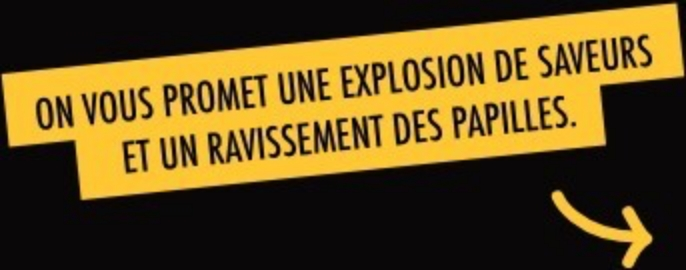
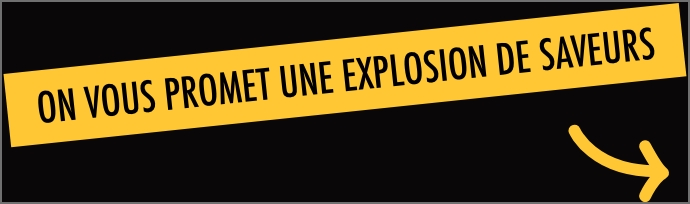
ok

diff --git a/wingstop-mail/index.html b/wingstop-mail/index.html
@@ -19,7 +19,7 @@
         body,
         td {
             font-family: Arial, Helvetica, Geneva, sans-serif;
-            font-size: 14px;
+            font-size: 10.9px;
         }
 
         .show {
@@ -187,12 +187,12 @@
                                                     <font style="font-weight: bold;font-size: 30px;">Rendez-vous</font>
                                                     <br>
                                                     <font style="font-weight: bold;font-size: 22px;">le 5 avril 2022
-                                                    </font><br><br>
-                                                    <font style="font-size: 17px;">pour une journée de lancement
+                                                    </font><br><br><br>
+                                                    <font style="font-size: 13px;">pour une journée de lancement
                                                         exceptionnelle. Et surprise !
                                                         Si vous faîtes partie des 100 premiers visiteurs, nous vous
                                                         offrons le menu burger!
-                                                    </font><br><br>
+                                                    </font><br><br><br><br>
                                                     <a href="https://wingstop.fr/nos-saveurs.html"><img src="https://arthurgenestier.github.io/wingstop-mail/img/CTA.jpg"
                                                             class="img-fluid" alt="je découvre"></a><br><br>
                                                 </td>
@@ -209,9 +209,9 @@
                                             <tr class="mBlock">
                                                 <td class="mBlock mwauto  mPadding" width="50%"
                                                     style="background: #090707;padding-left: 30px;">
-                                                    <font style="color: #FFFFFF;font-size: 17px;">On vous attend avec
+                                                    <font style="color: #FFFFFF;font-size: 13px;">On vous attend avec
                                                         impatience pour vous faire découvrir ce Big Flavour Burger à la
-                                                        sauce Wingstop.</font>
+                                                        sauce Wingstop.</font><br><br>
                                                     <img src="https://arthurgenestier.github.io/wingstop-mail/img/text-fleche.jpg"
                                                         alt="on vous promet une explosion de saveurs" class="img-fluid"
                                                         width="250" style="margin-bottom: 10px;">
